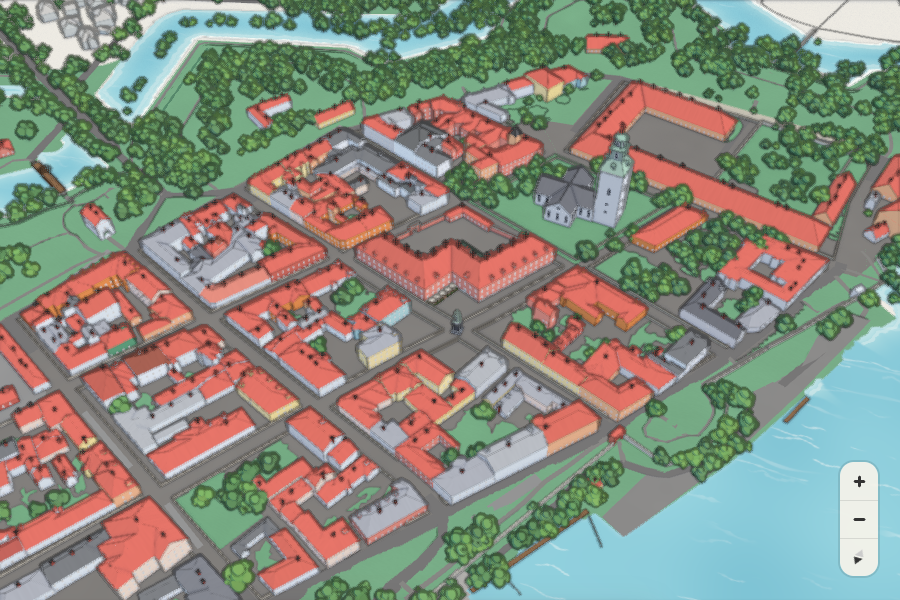
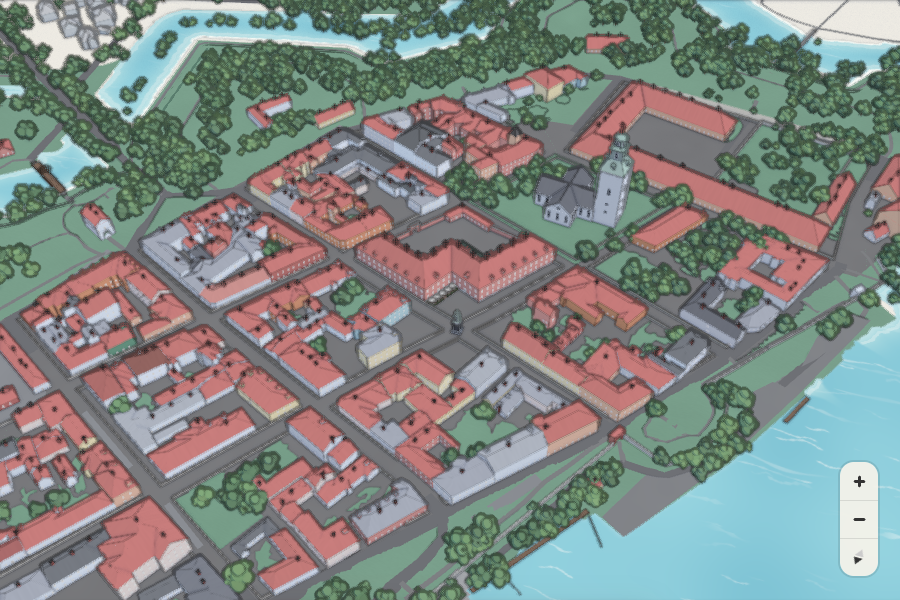
Rapport
Claude-Session: https://claude.ai/code/session_01WG8cVDwFDBJncy2QxLUQWP

diff --git a/ut/modul.js b/ut/modul.js
@@ -239,7 +239,7 @@ function solposisjon(dato, lat=59.2075, lon=10.9545){
 }
 const SOL={modus:'plakat', asimut:0, hoyde:35*GRAD};
 // sollyset blir varmere jo lavere sola står
-function solFargeFor(hoyde){ const k=THREE.MathUtils.smoothstep(hoyde,4*GRAD,34*GRAD);
+function solFargeFor(hoyde){ const k=THREE.MathUtils.smoothstep(hoyde,4*GRAD,48*GRAD);   // 48°: den faste sola (42°) er svakt gyllen, ikke hvit (28.10)
   sun.color.setRGB(1.0, THREE.MathUtils.lerp(0.80,0.985,k), THREE.MathUtils.lerp(0.62,0.95,k)); }
 function setSol(asimut, hoyde){
   SOL.modus='ekte'; SOL.asimut=asimut; SOL.hoyde=Math.max(hoyde,3*GRAD);
@@ -321,7 +321,9 @@ varying vec3 vWq;
 // Etter introen er solUte 1 og alt dette er én sammenligning per piksel. Ingen overlegg: skyggene som vokser fram er ekte skygger.
 uniform float solUte, solFront, solBredde; uniform vec3 solFrontDir;
 float solHer(vec3 wq){ if(solUte>=1.) return 1.; float v=dot(wq.xz, solFrontDir.xz)+0.8*wq.y; return smoothstep(solFront, solFront+solBredde, v); }
-const vec3 OVERSKYET=vec3(0.86,0.90,0.97);   // overskyet: mørkere og kjøligere enn sol, så det synes at sola kommer
+const vec3 OVERSKYET=vec3(0.74,0.80,0.92);   // overskyet: tydelig mørkere og blåere (28.10 kl. 16.40: 0,86/0,90/0,97 var usynlig i Vegars Chrome)
+// overskyet tar også metningen ned: byen ser ut som tegningen i gråvær, og sola gir fargene tilbake
+vec3 graavaer(vec3 c){ float g=dot(c, vec3(0.299,0.587,0.114)); return mix(vec3(g), c, 0.72)*OVERSKYET; }
 #if NUM_DIR_LIGHTS>0
 struct DirectionalLight { vec3 direction; vec3 color; };
 uniform DirectionalLight directionalLights[NUM_DIR_LIGHTS];
@@ -371,7 +373,7 @@ function kobleSol(){ let n=0; scene.traverse(o=>{ const ms=o.material?[].concat(
 function medSkygge(m){
   m.lights=true; Object.assign(m.uniforms, THREE.UniformsUtils.clone(THREE.UniformsLib.lights), {skravur:U_SKRAVUR});
   m.vertexShader=GL_SOL_V+m.vertexShader.replace(/}\s*$/, glSolVMain('(modelMatrix*vec4(position,1.))','vec3(0.,1.,0.)')+'}');
-  m.fragmentShader=GL_SOL_F+m.fragmentShader.replace('#include <colorspace_fragment>','{ float su=solHer(vWq); vec3 sol=mix(gl_FragColor.rgb*KASTSKYGGE, gl_FragColor.rgb*mix(vec3(1.),solFarge(),0.5), skyggeMask()); gl_FragColor.rgb=mix(gl_FragColor.rgb*OVERSKYET, sol, su); gl_FragColor.rgb*=1.-0.28*skravurMaske(vWq, 1.-skyggeMask()); }\n#include <colorspace_fragment>');
+  m.fragmentShader=GL_SOL_F+m.fragmentShader.replace('#include <colorspace_fragment>','{ float su=solHer(vWq); vec3 sol=mix(gl_FragColor.rgb*KASTSKYGGE, gl_FragColor.rgb*mix(vec3(1.),solFarge(),0.5), skyggeMask()); gl_FragColor.rgb=mix(graavaer(gl_FragColor.rgb), sol, su); gl_FragColor.rgb*=1.-0.28*skravurMaske(vWq, 1.-skyggeMask()); }\n#include <colorspace_fragment>');
   m.needsUpdate=true; return m;
 }
 
@@ -605,7 +607,7 @@ function mat(rgb, dim, sk, opt={}){
           float lit=lam*skyggeMask();
           float k=1.-lit;
           float su=solHer(wq);
-          vec3 c = mix(skygge*KALD, farge*mix(vec3(1.),solFarge(),0.6*su), lit); c=mix(c*OVERSKYET, c, su);
+          vec3 c = mix(skygge*KALD, farge*mix(vec3(1.),solFarge(),0.6*su), lit); c=mix(graavaer(c), c, su);
           // ---- malte flater: akvarellvask og penselstrøk, forankret i byen (ikke skjermen) ----
           vec3 nq=normalize(cross(dFdx(lp),dFdy(lp)));
           float vask=nn(wq.xz*0.045+wq.y*0.031)*0.62+nn(wq.xz*0.17+vec2(wq.y*0.23,3.1))*0.38;
@@ -1269,7 +1271,7 @@ function lovMatLag(){
         float lys=smoothstep(0.60,0.64,w), mid=smoothstep(0.36,0.40,w);
         vec3 lysF=vCol*vec3(1.30,1.22,0.98)+vec3(0.04,0.045,0.0);
         vec3 mork=vCol*vec3(0.50,0.60,0.68);
-        vec3 c=mix(mork, mix(vCol,lysF,lys), mid); c=mix(c*OVERSKYET, c, solHer(vWq));
+        vec3 c=mix(mork, mix(vCol,lysF,lys), mid); c=mix(graavaer(c), c, solHer(vWq));
         gl_FragColor=vec4(c,1.);
         #include <colorspace_fragment>
       }`

diff --git a/ut/server/index.html b/ut/server/index.html
@@ -289,7 +289,7 @@ function solposisjon(dato, lat=59.2075, lon=10.9545){
 }
 const SOL={modus:'plakat', asimut:0, hoyde:35*GRAD};
 // sollyset blir varmere jo lavere sola står
-function solFargeFor(hoyde){ const k=THREE.MathUtils.smoothstep(hoyde,4*GRAD,34*GRAD);
+function solFargeFor(hoyde){ const k=THREE.MathUtils.smoothstep(hoyde,4*GRAD,48*GRAD);   // 48°: den faste sola (42°) er svakt gyllen, ikke hvit (28.10)
   sun.color.setRGB(1.0, THREE.MathUtils.lerp(0.80,0.985,k), THREE.MathUtils.lerp(0.62,0.95,k)); }
 function setSol(asimut, hoyde){
   SOL.modus='ekte'; SOL.asimut=asimut; SOL.hoyde=Math.max(hoyde,3*GRAD);
@@ -371,7 +371,9 @@ varying vec3 vWq;
 // Etter introen er solUte 1 og alt dette er én sammenligning per piksel. Ingen overlegg: skyggene som vokser fram er ekte skygger.
 uniform float solUte, solFront, solBredde; uniform vec3 solFrontDir;
 float solHer(vec3 wq){ if(solUte>=1.) return 1.; float v=dot(wq.xz, solFrontDir.xz)+0.8*wq.y; return smoothstep(solFront, solFront+solBredde, v); }
-const vec3 OVERSKYET=vec3(0.86,0.90,0.97);   // overskyet: mørkere og kjøligere enn sol, så det synes at sola kommer
+const vec3 OVERSKYET=vec3(0.74,0.80,0.92);   // overskyet: tydelig mørkere og blåere (28.10 kl. 16.40: 0,86/0,90/0,97 var usynlig i Vegars Chrome)
+// overskyet tar også metningen ned: byen ser ut som tegningen i gråvær, og sola gir fargene tilbake
+vec3 graavaer(vec3 c){ float g=dot(c, vec3(0.299,0.587,0.114)); return mix(vec3(g), c, 0.72)*OVERSKYET; }
 #if NUM_DIR_LIGHTS>0
 struct DirectionalLight { vec3 direction; vec3 color; };
 uniform DirectionalLight directionalLights[NUM_DIR_LIGHTS];
@@ -421,7 +423,7 @@ function kobleSol(){ let n=0; scene.traverse(o=>{ const ms=o.material?[].concat(
 function medSkygge(m){
   m.lights=true; Object.assign(m.uniforms, THREE.UniformsUtils.clone(THREE.UniformsLib.lights), {skravur:U_SKRAVUR});
   m.vertexShader=GL_SOL_V+m.vertexShader.replace(/}\s*$/, glSolVMain('(modelMatrix*vec4(position,1.))','vec3(0.,1.,0.)')+'}');
-  m.fragmentShader=GL_SOL_F+m.fragmentShader.replace('#include <colorspace_fragment>','{ float su=solHer(vWq); vec3 sol=mix(gl_FragColor.rgb*KASTSKYGGE, gl_FragColor.rgb*mix(vec3(1.),solFarge(),0.5), skyggeMask()); gl_FragColor.rgb=mix(gl_FragColor.rgb*OVERSKYET, sol, su); gl_FragColor.rgb*=1.-0.28*skravurMaske(vWq, 1.-skyggeMask()); }\n#include <colorspace_fragment>');
+  m.fragmentShader=GL_SOL_F+m.fragmentShader.replace('#include <colorspace_fragment>','{ float su=solHer(vWq); vec3 sol=mix(gl_FragColor.rgb*KASTSKYGGE, gl_FragColor.rgb*mix(vec3(1.),solFarge(),0.5), skyggeMask()); gl_FragColor.rgb=mix(graavaer(gl_FragColor.rgb), sol, su); gl_FragColor.rgb*=1.-0.28*skravurMaske(vWq, 1.-skyggeMask()); }\n#include <colorspace_fragment>');
   m.needsUpdate=true; return m;
 }
 
@@ -655,7 +657,7 @@ function mat(rgb, dim, sk, opt={}){
           float lit=lam*skyggeMask();
           float k=1.-lit;
           float su=solHer(wq);
-          vec3 c = mix(skygge*KALD, farge*mix(vec3(1.),solFarge(),0.6*su), lit); c=mix(c*OVERSKYET, c, su);
+          vec3 c = mix(skygge*KALD, farge*mix(vec3(1.),solFarge(),0.6*su), lit); c=mix(graavaer(c), c, su);
           // ---- malte flater: akvarellvask og penselstrøk, forankret i byen (ikke skjermen) ----
           vec3 nq=normalize(cross(dFdx(lp),dFdy(lp)));
           float vask=nn(wq.xz*0.045+wq.y*0.031)*0.62+nn(wq.xz*0.17+vec2(wq.y*0.23,3.1))*0.38;
@@ -1319,7 +1321,7 @@ function lovMatLag(){
         float lys=smoothstep(0.60,0.64,w), mid=smoothstep(0.36,0.40,w);
         vec3 lysF=vCol*vec3(1.30,1.22,0.98)+vec3(0.04,0.045,0.0);
         vec3 mork=vCol*vec3(0.50,0.60,0.68);
-        vec3 c=mix(mork, mix(vCol,lysF,lys), mid); c=mix(c*OVERSKYET, c, solHer(vWq));
+        vec3 c=mix(mork, mix(vCol,lysF,lys), mid); c=mix(graavaer(c), c, solHer(vWq));
         gl_FragColor=vec4(c,1.);
         #include <colorspace_fragment>
       }`

diff --git a/rapport/rapport.md b/rapport/rapport.md
@@ -1,13 +1,13 @@
 # Regelrapport
 
-Kilde: a3bf440 versjon 34 kjørt 2026-10-28 16:29
+Kilde: c75c25a versjon 34 kjørt 2026-10-28 16:39
 
 - OK   01_bygg_finnes  (0 bygg med vegetasjon under seg som ikke er skjult; 9 skjult med grunn)
 - OK   02_hoyder_maalt  (197 hus står med Kartverkets målte høyde; 0 avviker; 78 hus uten sikker måling beholder tegning/OSM)
 - FEIL 03_fasader_fra_tegning  (97 hus med fasade fra tegning, 170 antatt (må kvalitetssikres kvartal for kvartal))
 - OK   04_vinduer_ikke_i_hjorner  (0 vinduer for nær et hjørne)
 - OK   05_kvalitet_bare_kamera  (settSkala(skalaStille) uavhengig av bevegelse)
-- OK   06_bygger_og_laster  (- bygd enkel -> /home/claude/fredrikstad-fortress-town/ut/enkel/index.html 2319 kB versjon 34)
+- OK   06_bygger_og_laster  (- bygd enkel -> /home/claude/fredrikstad-fortress-town/ut/enkel/index.html 2320 kB versjon 34)
 - OK   07_ingen_feil_i_bruk  (- intro: underveis az -1.04 zoom 0.68 → ferdig az -2.79 zoom 1.00 intro false)
 - OK   08_lint  (- ingen feil)
 - FEIL 09_publisert  (- Pages: versjon 32 (ønsket 33))

diff --git a/rapport/07_ingen_feil_i_bruk.md b/rapport/07_ingen_feil_i_bruk.md
@@ -3,8 +3,8 @@
 - intro: underveis az -1.04 zoom 0.68 → ferdig az -2.79 zoom 1.00 intro false
 - klikk kirka: {"vis":true,"navn":"Kirken"}
 - esc → hjem: x 25.0 z -25.0 zoom 1.00 kort vis false
-- styreflate-dra: x 108.2 z -75.8 zoom 1.00
+- styreflate-dra: x 25.0 z -25.0 zoom 1.00
 - hjul: zoom 1.00
 - dobbeltklikk: zoom 1.00 kort vis false
-- musedra: x 151.3 z -15.4 az -2.79
+- musedra: x 154.7 z -14.5 az -2.79
 - feil []

diff --git a/rapport/06_bygger_og_laster.md b/rapport/06_bygger_og_laster.md
@@ -1,5 +1,5 @@
 # 06_bygger_og_laster: OK
 
-- bygd enkel -> /home/claude/fredrikstad-fortress-town/ut/enkel/index.html 2319 kB versjon 34
+- bygd enkel -> /home/claude/fredrikstad-fortress-town/ut/enkel/index.html 2320 kB versjon 34
 - bygd server -> /home/claude/fredrikstad-fortress-town/ut/server/index.html 239 kB versjon 34
 - lastet: true feil: []
